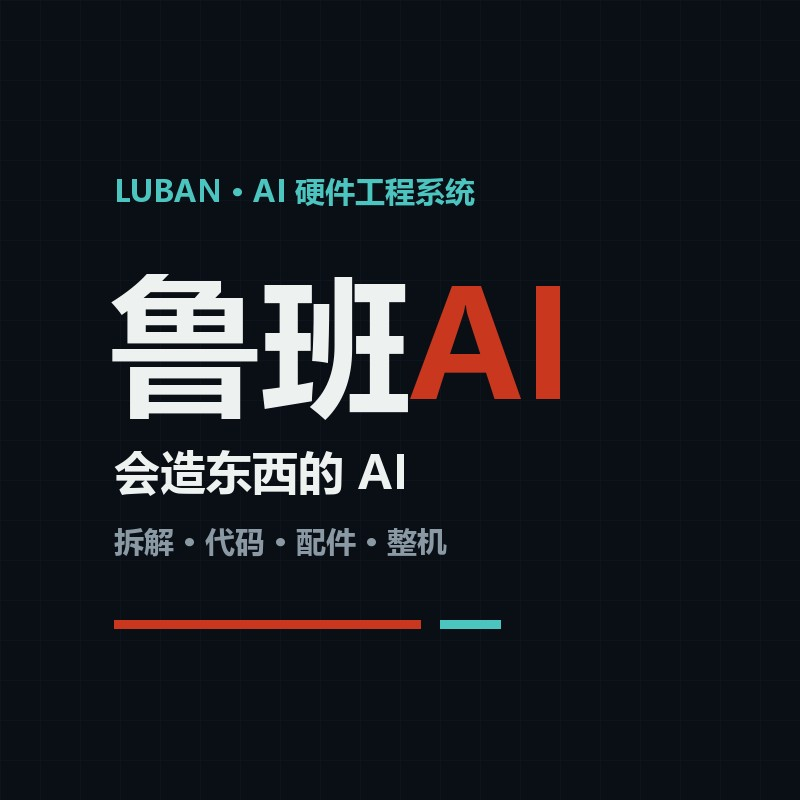
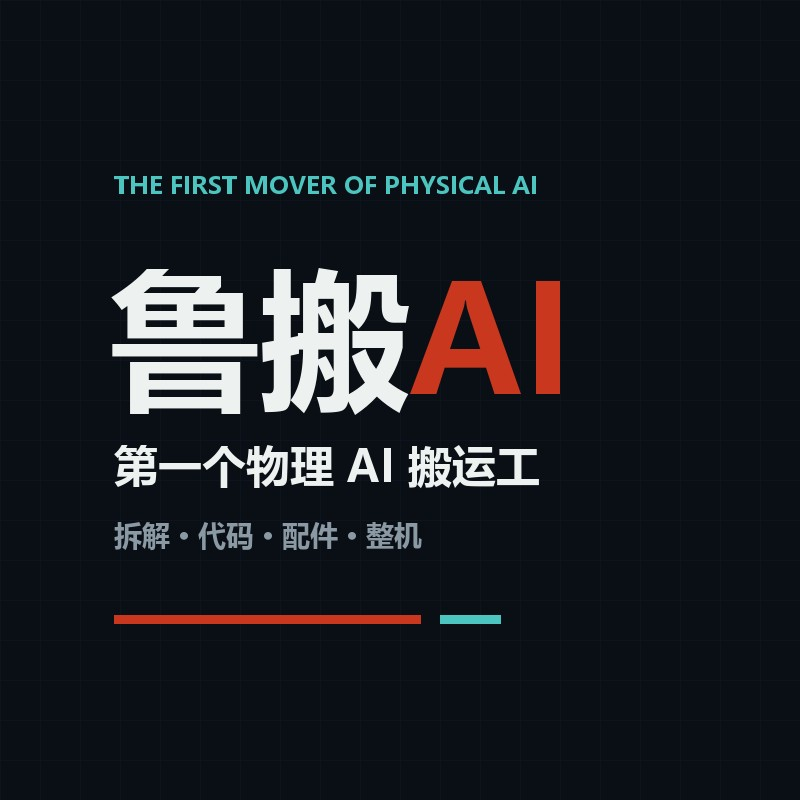
换名: 鲁班AI→鲁搬AI + slogan 第一个物理AI搬运工/The First Mover of Physical AI + og图v2

diff --git a/luban.html b/luban.html
@@ -1,24 +1,24 @@
 <!DOCTYPE html><html lang="zh-CN"><head><meta charset="utf-8">
 <meta name="viewport" content="width=device-width,initial-scale=1">
-<title>鲁班AI · 会造东西的 AI</title>
-<meta name="description" content="鲁班AI：从一句话到一台样机。拆解、代码、配件、整机，四步把想法变成产品。">
+<title>鲁搬AI · 第一个物理 AI 搬运工</title>
+<meta name="description" content="鲁搬AI：从一句话到一台样机。拆解、代码、配件、整机，四步把想法变成产品。">
 
 <meta property="og:type" content="website">
-<meta property="og:site_name" content="鲁班AI · LUBAN AI">
-<meta property="og:title" content="鲁班AI · 会造东西的 AI">
-<meta property="og:description" content="说出你想造的东西，剩下的交给鲁班。拆解、代码、配件、整机，四步从想法到样机。">
-<meta property="og:image" content="https://crayxus.com.au/og-luban.jpg?v=1">
-<meta property="og:image:secure_url" content="https://crayxus.com.au/og-luban.jpg?v=1">
+<meta property="og:site_name" content="鲁搬AI · LUBAN AI">
+<meta property="og:title" content="鲁搬AI · 第一个物理 AI 搬运工">
+<meta property="og:description" content="第一个物理 AI 搬运工。拆解、代码、配件、整机，四步从想法到样机。">
+<meta property="og:image" content="https://crayxus.com.au/og-luban.jpg?v=2">
+<meta property="og:image:secure_url" content="https://crayxus.com.au/og-luban.jpg?v=2">
 <meta property="og:image:type" content="image/jpeg">
 <meta property="og:image:width" content="800">
 <meta property="og:image:height" content="800">
-<meta property="og:image:alt" content="鲁班AI 会造东西的 AI">
+<meta property="og:image:alt" content="鲁搬AI 会造东西的 AI">
 <meta property="og:url" content="https://crayxus.com.au/luban.html">
 <meta property="og:locale" content="zh_CN">
-<meta itemprop="image" content="https://crayxus.com.au/og-luban.jpg?v=1">
-<meta name="image" content="https://crayxus.com.au/og-luban.jpg?v=1">
+<meta itemprop="image" content="https://crayxus.com.au/og-luban.jpg?v=2">
+<meta name="image" content="https://crayxus.com.au/og-luban.jpg?v=2">
 <meta name="twitter:card" content="summary_large_image">
-<meta name="twitter:image" content="https://crayxus.com.au/og-luban.jpg?v=1">
+<meta name="twitter:image" content="https://crayxus.com.au/og-luban.jpg?v=2">
 <style>
 :root{
   --bg:#0A0F16; --bg2:#0D141D; --card:#101822; --line:#1C2733;
@@ -93,14 +93,14 @@ footer .wrap{display:flex;justify-content:space-between;flex-wrap:wrap;gap:10px}
 </style></head><body>
 
 <nav><div class="wrap">
-  <a class="logo" href="index.html">鲁班<b>AI</b></a>
+  <a class="logo" href="index.html">鲁搬<b>AI</b></a>
   <div class="r"><a href="index.html#kings">四大金刚</a><a class="cta" href="index.html#vibe">现场试驾 →</a></div>
 </div></nav>
 
 <header><div class="wrap">
-  <div class="eyebrow">LUBAN · AI 硬件工程系统</div>
-  <h1>说出你想造的东西，<br>剩下的交给<i>鲁班</i>。</h1>
-  <p class="sub">软件的 AI 帮你写代码，<b>鲁班 AI 帮你造实物</b>。
+  <div class="eyebrow">LUBAN AI · THE FIRST MOVER OF PHYSICAL AI</div>
+  <h1>说出你想造的东西，<br>剩下的交给<i>鲁搬</i>。</h1>
+  <p class="sub"><b>第一个物理 AI 搬运工</b> —— 把 AI 从屏幕里，搬进物理世界。
     从一句话的想法，到拿在手里的样机——拆解、代码、配件、整机，一条流水线走完。</p>
 </div></header>
 
@@ -122,7 +122,7 @@ footer .wrap{display:flex;justify-content:space-between;flex-wrap:wrap;gap:10px}
   <p class="lede">每一步都可以单独停下——只想看看方案，或者一路走到拿货，你说了算。</p>
   <div class="steps">
     <div class="step"><span class="ic">🧩</span><b>拆解</b>
-      <p>说出你想做的产品，鲁班当场生成《产品配件拆解图》：模块划分、器件选型、接线关系、BOM 成本、开发周期。</p>
+      <p>说出你想做的产品，鲁搬当场生成《产品配件拆解图》：模块划分、器件选型、接线关系、BOM 成本、开发周期。</p>
       <small>免费体验 · 主页即拆</small></div>
     <div class="step"><span class="ic">💻</span><b>代码包</b>
       <p>拆解方案对应的固件与驱动代码直接打包下载，烧录即跑——不用从零写一行底层。</p>
@@ -131,7 +131,7 @@ footer .wrap{display:flex;justify-content:space-between;flex-wrap:wrap;gap:10px}
       <p>BOM 清单一键下单，所有器件按拆解型号配齐寄到手——不用再逐个搜淘宝、怕买错型号。</p>
       <small>零件到家，照图组装</small></div>
     <div class="step"><span class="ic">🏭</span><b>整机代工</b>
-      <p>不想自己焊？把方案交给鲁班的代工线，贴片、组装、测试完成后，直接收到能开机的整机。</p>
+      <p>不想自己焊？把方案交给鲁搬的代工线，贴片、组装、测试完成后，直接收到能开机的整机。</p>
       <small>一句话，变一台机器</small></div>
   </div>
 </div></section>
@@ -147,7 +147,7 @@ footer .wrap{display:flex;justify-content:space-between;flex-wrap:wrap;gap:10px}
       <p>投资人面前需要一台真样机，不是一页 PPT。两周出 demo，成本当场算清，融资底气完全不同。</p>
       <span>最常拆：消费电子 · 智能家居原型</span></div>
     <div class="u"><b>🏭 中小工厂主</b>
-      <p>传统产品想加一点"智能"卖出溢价，又养不起研发团队——鲁班就是你租来的整套研发部。</p>
+      <p>传统产品想加一点"智能"卖出溢价，又养不起研发团队——鲁搬就是你租来的整套研发部。</p>
       <span>最常拆：产品智能化改造 · 数字化配件</span></div>
     <div class="u"><b>🏫 培训与孵化机构</b>
       <p>让学员的创业想法当堂变成可演示的硬件方案，课程与孵化项目的交付质量直接上一个台阶。</p>
@@ -162,7 +162,7 @@ footer .wrap{display:flex;justify-content:space-between;flex-wrap:wrap;gap:10px}
 </div></div>
 
 <footer><div class="wrap">
-  <span>鲁班AI · LUBAN AI · 会造东西的 AI</span>
+  <span>鲁搬AI · LUBAN AI · 第一个物理 AI 搬运工</span>
   <span>crayxus.com.au</span>
 </div></footer>
 

diff --git a/index.html b/index.html
@@ -3,8 +3,8 @@
 <head>
 <meta charset="UTF-8">
 <meta name="viewport" content="width=device-width,initial-scale=1">
-<title>鲁班AI · 会造东西的 AI</title>
-<meta name="description" content="鲁班 LUBAN·AI 硬件工程系统。说出你想造的，鲁班当场拆给你看——模块、器件、成本、周期。四大金刚：SITAS 实验室存证 / AI 智能消防头盔 / COOKO 冰箱贴 / Nomi 智能餐叉。">
+<title>鲁搬AI · 会造东西的 AI</title>
+<meta name="description" content="鲁搬 LUBAN·AI 硬件工程系统。说出你想造的，鲁搬当场拆给你看——模块、器件、成本、周期。四大金刚：SITAS 实验室存证 / AI 智能消防头盔 / COOKO 冰箱贴 / Nomi 智能餐叉。">
 
 <link rel="icon" type="image/png" sizes="32x32" href="favicon-32.png">
 <link rel="icon" type="image/png" sizes="16x16" href="favicon-16.png">
@@ -12,15 +12,15 @@
 
 <!-- Open Graph · 微信分享卡片 -->
 <meta property="og:type" content="website">
-<meta property="og:site_name" content="鲁班AI">
-<meta property="og:title" content="鲁班AI · 会造东西的 AI">
-<meta property="og:description" content="说出你想造的，鲁班当场拆给你看——模块、器件、成本、周期。四大金刚：SITAS / AI消防头盔 / COOKO / Nomi。">
+<meta property="og:site_name" content="鲁搬AI">
+<meta property="og:title" content="鲁搬AI · 会造东西的 AI">
+<meta property="og:description" content="说出你想造的，鲁搬当场拆给你看——模块、器件、成本、周期。四大金刚：SITAS / AI消防头盔 / COOKO / Nomi。">
 <meta property="og:image" content="https://crayxus.com.au/og-luban.jpg?v=1">
 <meta property="og:image:secure_url" content="https://crayxus.com.au/og-luban.jpg?v=1">
 <meta property="og:image:type" content="image/jpeg">
 <meta property="og:image:width" content="800">
 <meta property="og:image:height" content="800">
-<meta property="og:image:alt" content="鲁班AI">
+<meta property="og:image:alt" content="鲁搬AI">
 <meta property="og:url" content="https://crayxus.com.au/">
 <meta property="og:locale" content="zh_CN">
 <meta itemprop="image" content="https://crayxus.com.au/og-luban.jpg?v=1">
@@ -172,26 +172,26 @@ footer{padding:42px 0 60px;font-size:13px;color:var(--mute);
 </div></div>
 
 <nav><div class="in">
-  <div class="logo">鲁<i>班</i>AI<span>LUBAN · AI</span></div>
+  <div class="logo">鲁<i>班</i>AI<span>LUBAN AI</span></div>
   <div class="r">
     <a href="#vibe">试驾</a>
     <a href="#kings">四大金刚</a>
-    <a href="luban.html">了解鲁班</a>
+    <a href="luban.html">了解鲁搬</a>
   </div>
 </div></nav>
 
 <div class="wrap">
 
 <header>
-  <div class="eyebrow">LUBAN · AI 硬件工程系统</div>
+  <div class="eyebrow">LUBAN AI · THE FIRST MOVER OF PHYSICAL AI</div>
   <h1>会<em>造东西</em>的 AI。</h1>
-  <p class="sub">软件的 AI 已经泛滥，硬件的 AI 刚刚开始。说出你想造的，鲁班当场拆给你看——模块、器件、成本、周期。</p>
+  <p class="sub">软件的 AI 已经泛滥，硬件的 AI 刚刚开始。说出你想造的，鲁搬当场拆给你看——模块、器件、成本、周期。</p>
   <div class="inkline"></div>
 </header>
 
 <div class="vibe" id="vibe">
   <h2>⚡ 现场试驾</h2>
-  <p class="hint">输入一个你想做的硬件产品，鲁班实时生成《产品配件拆解图》——真实器件选型、BOM 成本、开发周期。</p>
+  <p class="hint">输入一个你想做的硬件产品，鲁搬实时生成《产品配件拆解图》——真实器件选型、BOM 成本、开发周期。</p>
   <div class="row">
     <input id="idea" maxlength="60" placeholder="比如：一个能提醒喝水的智能水杯"
       autocomplete="off">
@@ -205,11 +205,11 @@ footer{padding:42px 0 60px;font-size:13px;color:var(--mute);
   </div>
   <div id="status"></div>
   <div id="outbox">
-    <div id="outbar"><b>鲁班 · 拆解图</b><span id="meta"></span>
+    <div id="outbar"><b>鲁搬 · 拆解图</b><span id="meta"></span>
       <button onclick="run()">↻ 重新生成</button></div>
     <iframe id="frame" sandbox=""></iframe>
   </div>
-  <p class="powered">演示由 <a href="https://safegate-2rw7.onrender.com" target="_blank" rel="noopener">SafeGate API 安全网关</a> 驱动 · 鲁班引擎实时生成 · 每 IP 每日限量</p>
+  <p class="powered">演示由 <a href="https://safegate-2rw7.onrender.com" target="_blank" rel="noopener">SafeGate API 安全网关</a> 驱动 · 鲁搬引擎实时生成 · 每 IP 每日限量</p>
 </div>
 
 <section id="kings">
@@ -251,7 +251,7 @@ footer{padding:42px 0 60px;font-size:13px;color:var(--mute);
 </div>
 
 <footer>
-  <span>鲁班AI · CRAYXUS</span>
+  <span>鲁搬AI · CRAYXUS</span>
   <span class="mono">crayxus.com.au</span>
 </footer>
 
@@ -296,9 +296,9 @@ async function run() {
   if (busy) return;
   const idea = $("idea").value.trim();
   const st = $("status");
-  if (!idea) { st.className="err"; st.textContent = "先告诉鲁班你想造什么"; return; }
+  if (!idea) { st.className="err"; st.textContent = "先告诉鲁搬你想造什么"; return; }
   busy = true; $("go").disabled = true; st.className="";
-  st.innerHTML = '🪚 鲁班正在拆解「' + idea.replace(/</g,"&lt;") + '」<span class="dots"></span>（首次约 20~60 秒）';
+  st.innerHTML = '🪚 鲁搬正在拆解「' + idea.replace(/</g,"&lt;") + '」<span class="dots"></span>（首次约 20~60 秒）';
   const ctrl = new AbortController();
   const timer = setTimeout(() => ctrl.abort(), 120000);
   try {
@@ -313,8 +313,8 @@ async function run() {
     $("frame").srcdoc = j.html;
     $("outbox").style.display = "block";
     $("meta").textContent = j.left > 0
-      ? "鲁班引擎 · 今日剩余 " + j.left + " 次"
-      : "鲁班引擎 · 今日体验已用完，想深入聊聊？联系我们";
+      ? "鲁搬引擎 · 今日剩余 " + j.left + " 次"
+      : "鲁搬引擎 · 今日体验已用完，想深入聊聊？联系我们";
     st.textContent = "";
     $("outbox").scrollIntoView({behavior:"smooth", block:"start"});
   } catch (e) {
